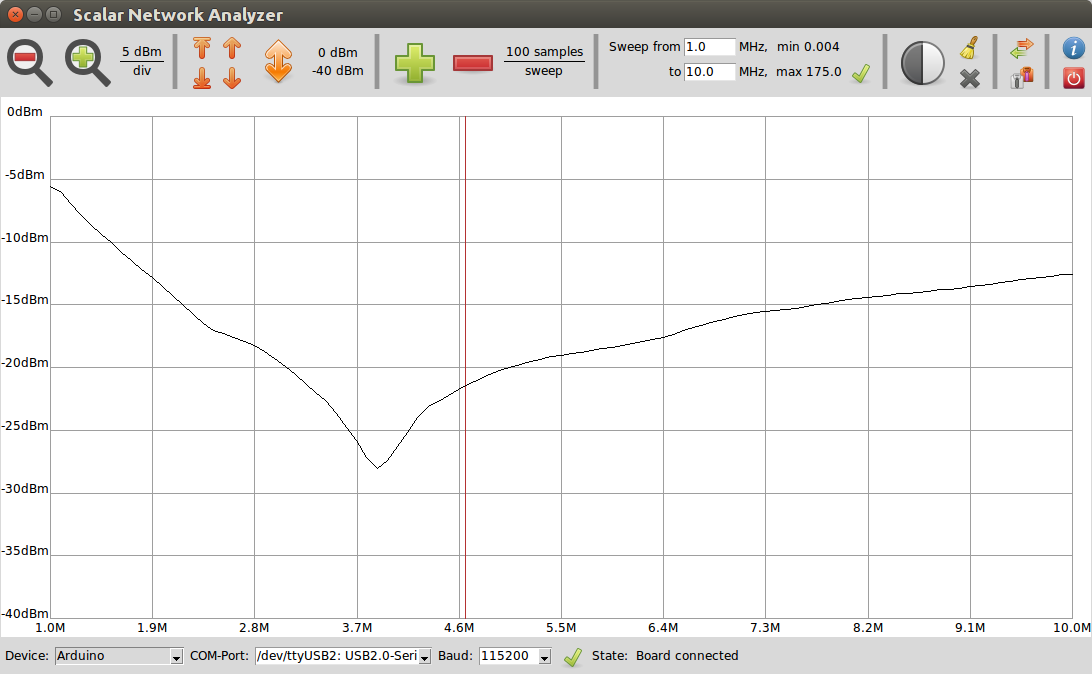
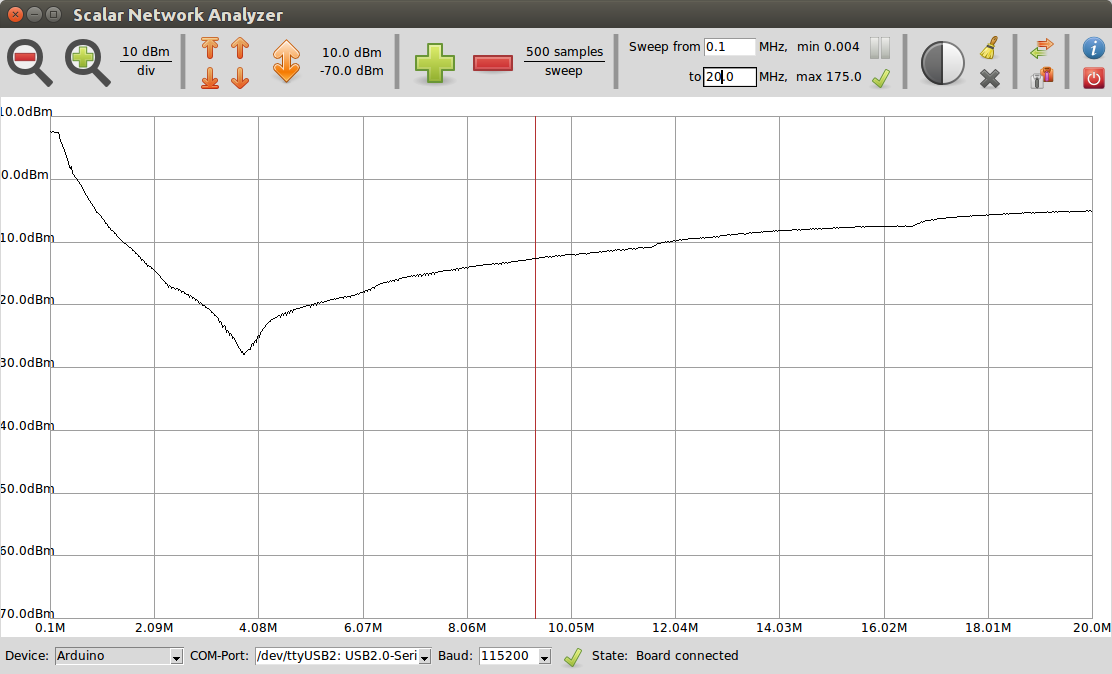
Added image, fixed bug

diff --git a/software/AnalyzerFrame.py b/software/AnalyzerFrame.py
@@ -357,6 +357,7 @@ class AnalyzerFrame(BaseHardware.HardwareListener):
 		self.model.setupArrays()
 		self.graph.updateGraph()
 		self.loadFrequencies()
+		self.restartSweep()
 
 
 	def loadFrequencies(self):
@@ -438,14 +439,16 @@ class AnalyzerFrame(BaseHardware.HardwareListener):
 
 		self.sweepSampleChanged()
 
+	def restartSweep(self):
+		if self.hwhandler.hardware != None:
+			self.hwhandler.hardware.resetSweep = True
+		
 
 	def sweepSampleChanged(self):
 		self.setModeAsolute()
 		self.model.setupArrays()
 		self.graph.updateGraph()
-
-		if self.hwhandler.hardware != None:
-			self.hwhandler.hardware.resetSweep = True
+		self.restartSweep()
 
 
 	def sampleSweepChanged(self):

diff --git a/README.md b/README.md
@@ -24,6 +24,8 @@ This board is not tested.
 This implementation is fully working from 4kHz to 175MHz, recommend range is about 1MHz to 100MHz, out of this range there are some issues: at 4kHz the Sinus looks more than a Square wave.
 At > 100MHz the signal gets lower.
 
+![Screenshot](/screenshot/SI5351_main.jpg?raw=true "SI5351 Mainboard")
+
 
 ### STM32 USB
 Not yet ready.
